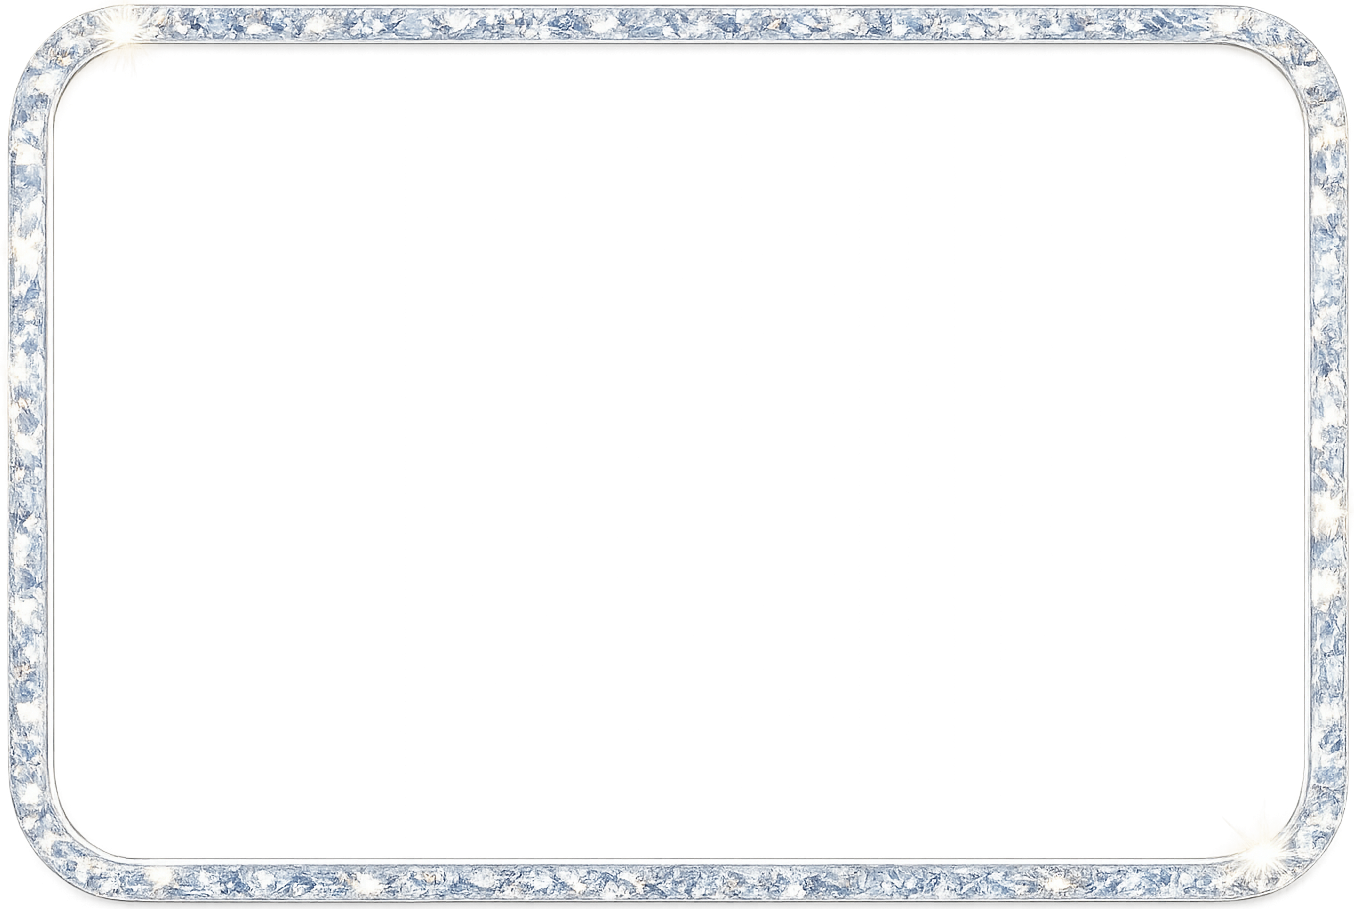
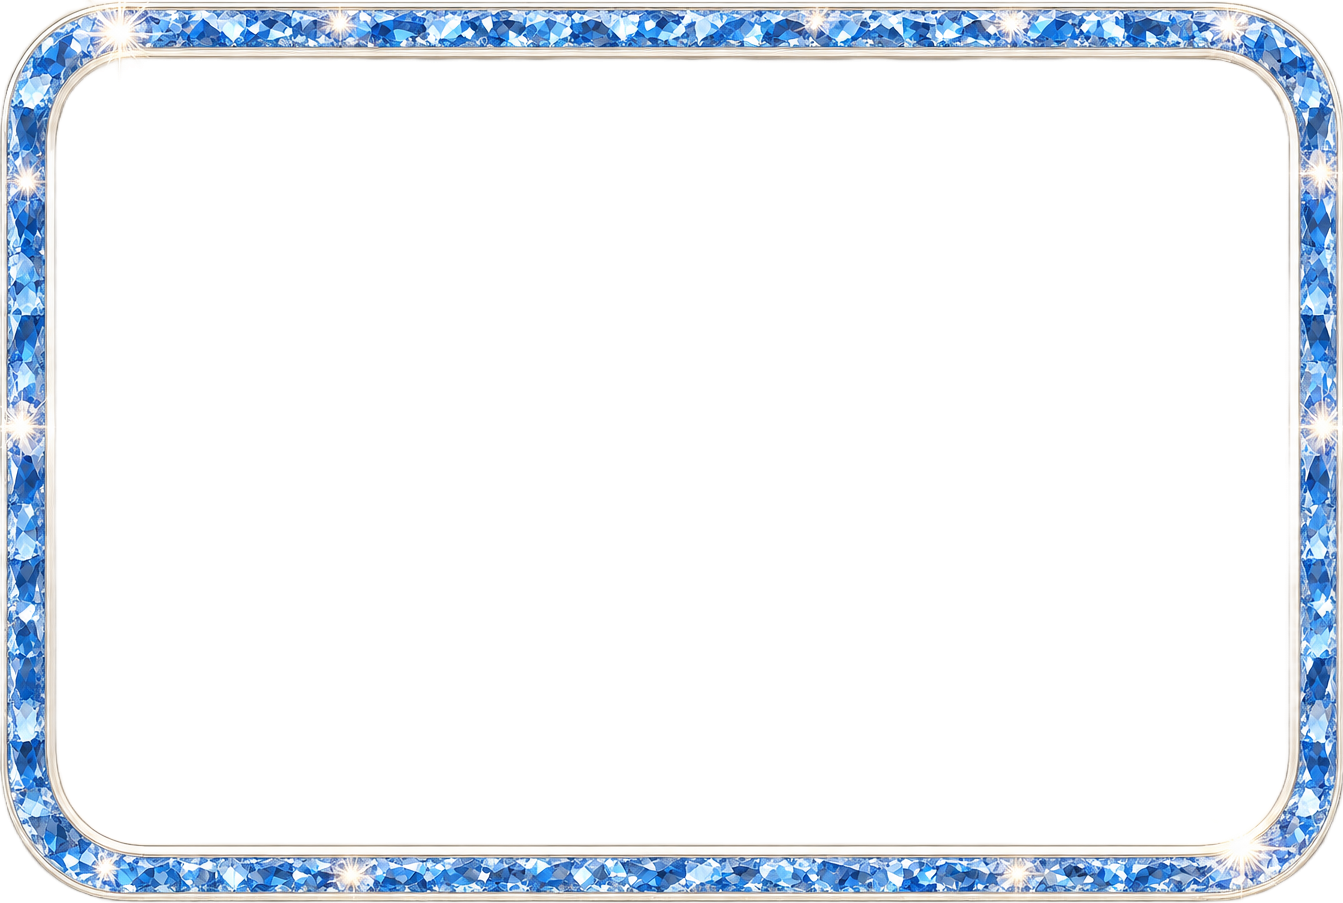
Coupon UI polish and border updates

Changed region(s): [[0.0, 0.0, 1.0, 1.0]]

diff --git a/lib/screens/coupon_detail_screen.dart b/lib/screens/coupon_detail_screen.dart
@@ -321,34 +321,23 @@ class _CouponDetailScreenState extends State<CouponDetailScreen> {
   }
 
   Widget _couponSurface({required Widget child}) {
-    final cardRadius = BorderRadius.circular(22);
+    const frameInset = 8.0;
+    final cardRadius = BorderRadius.circular(20);
     final frameRadius = BorderRadius.circular(28);
 
     return Stack(
       children: [
         Positioned.fill(
-          child: DecoratedBox(
-            decoration: BoxDecoration(
-              borderRadius: frameRadius,
-              boxShadow: const [
-                BoxShadow(
-                  color: Color.fromRGBO(120, 80, 40, 0.15),
-                  blurRadius: 18,
-                  offset: Offset(0, 9),
-                ),
-              ],
-            ),
-            child: ClipRRect(
-              borderRadius: frameRadius,
-              child: Image.asset(
-                'assets/images/diamond_coupon_border.png',
-                fit: BoxFit.fill,
-              ),
+          child: ClipRRect(
+            borderRadius: frameRadius,
+            child: Image.asset(
+              'assets/images/diamond_coupon_border.png',
+              fit: BoxFit.fill,
             ),
           ),
         ),
         Padding(
-          padding: const EdgeInsets.all(18),
+          padding: const EdgeInsets.all(frameInset),
           child: DecoratedBox(
             decoration: BoxDecoration(
               borderRadius: cardRadius,
@@ -364,9 +353,9 @@ class _CouponDetailScreenState extends State<CouponDetailScreen> {
               border: Border.all(color: const Color(0xFFE5D2C2), width: 1),
               boxShadow: const [
                 BoxShadow(
-                  color: Color.fromRGBO(120, 80, 40, 0.20),
-                  blurRadius: 12,
-                  offset: Offset(0, 7),
+                  color: Color.fromRGBO(120, 80, 40, 0.16),
+                  blurRadius: 10,
+                  offset: Offset(0, 4),
                 ),
                 BoxShadow(
                   color: Color.fromRGBO(120, 80, 40, 0.12),